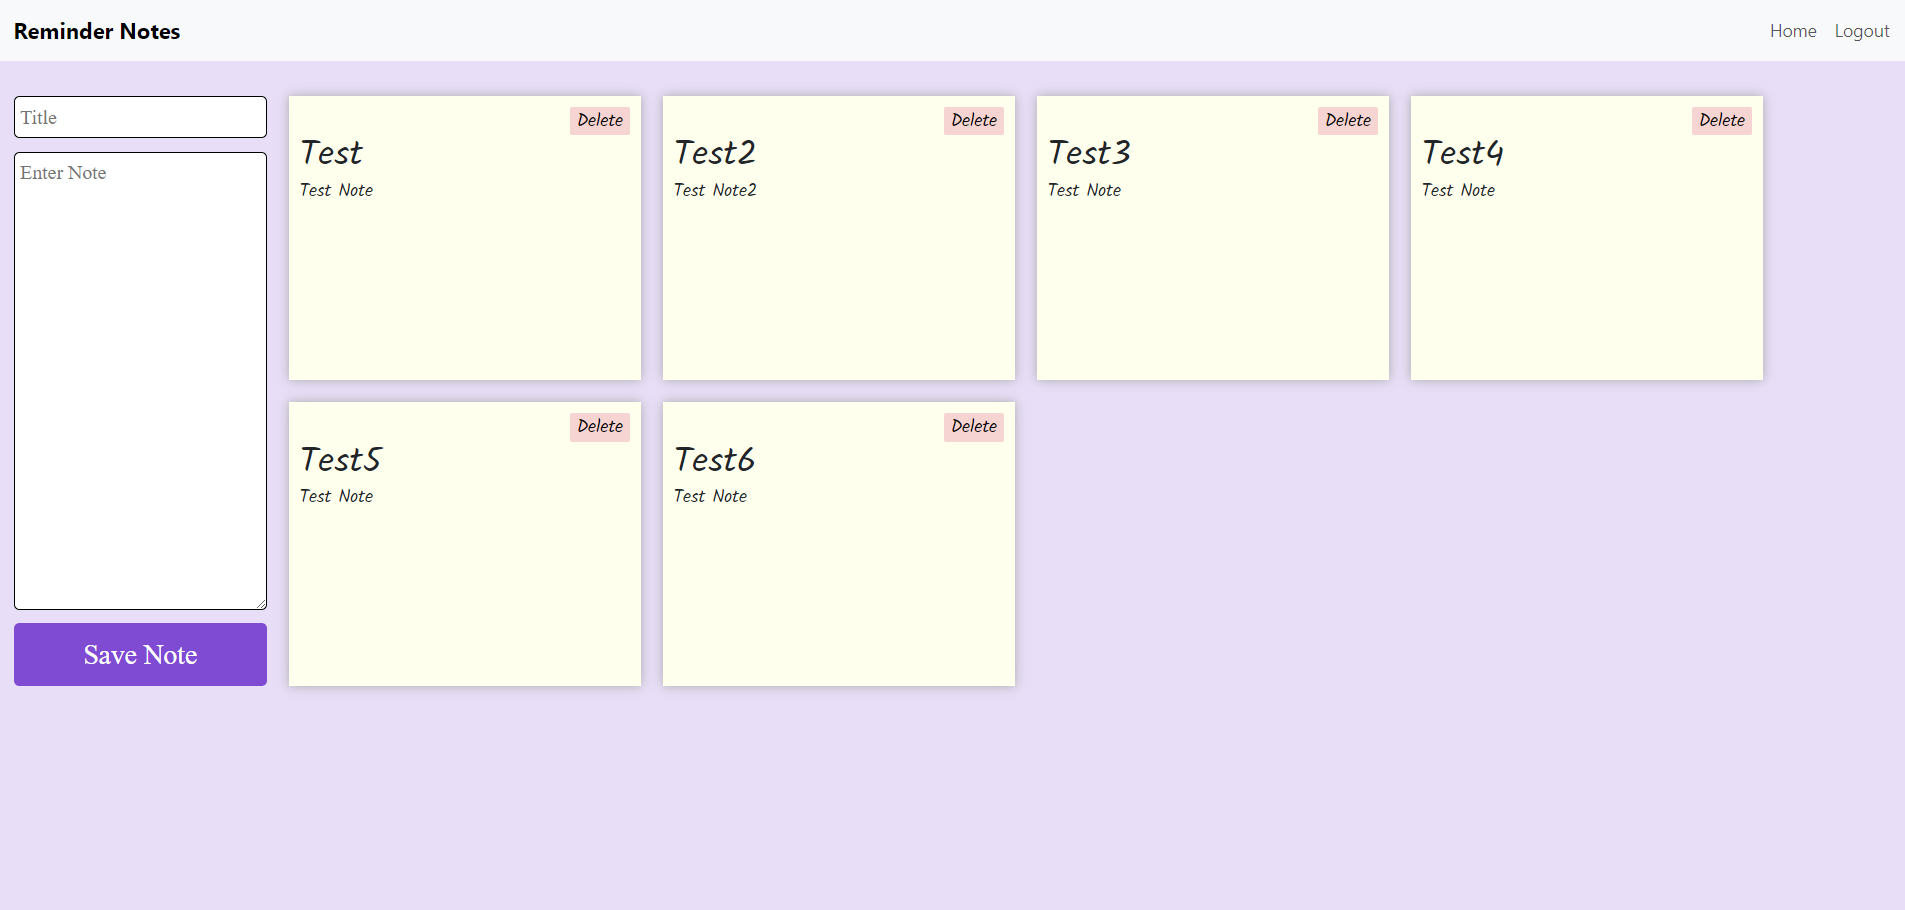
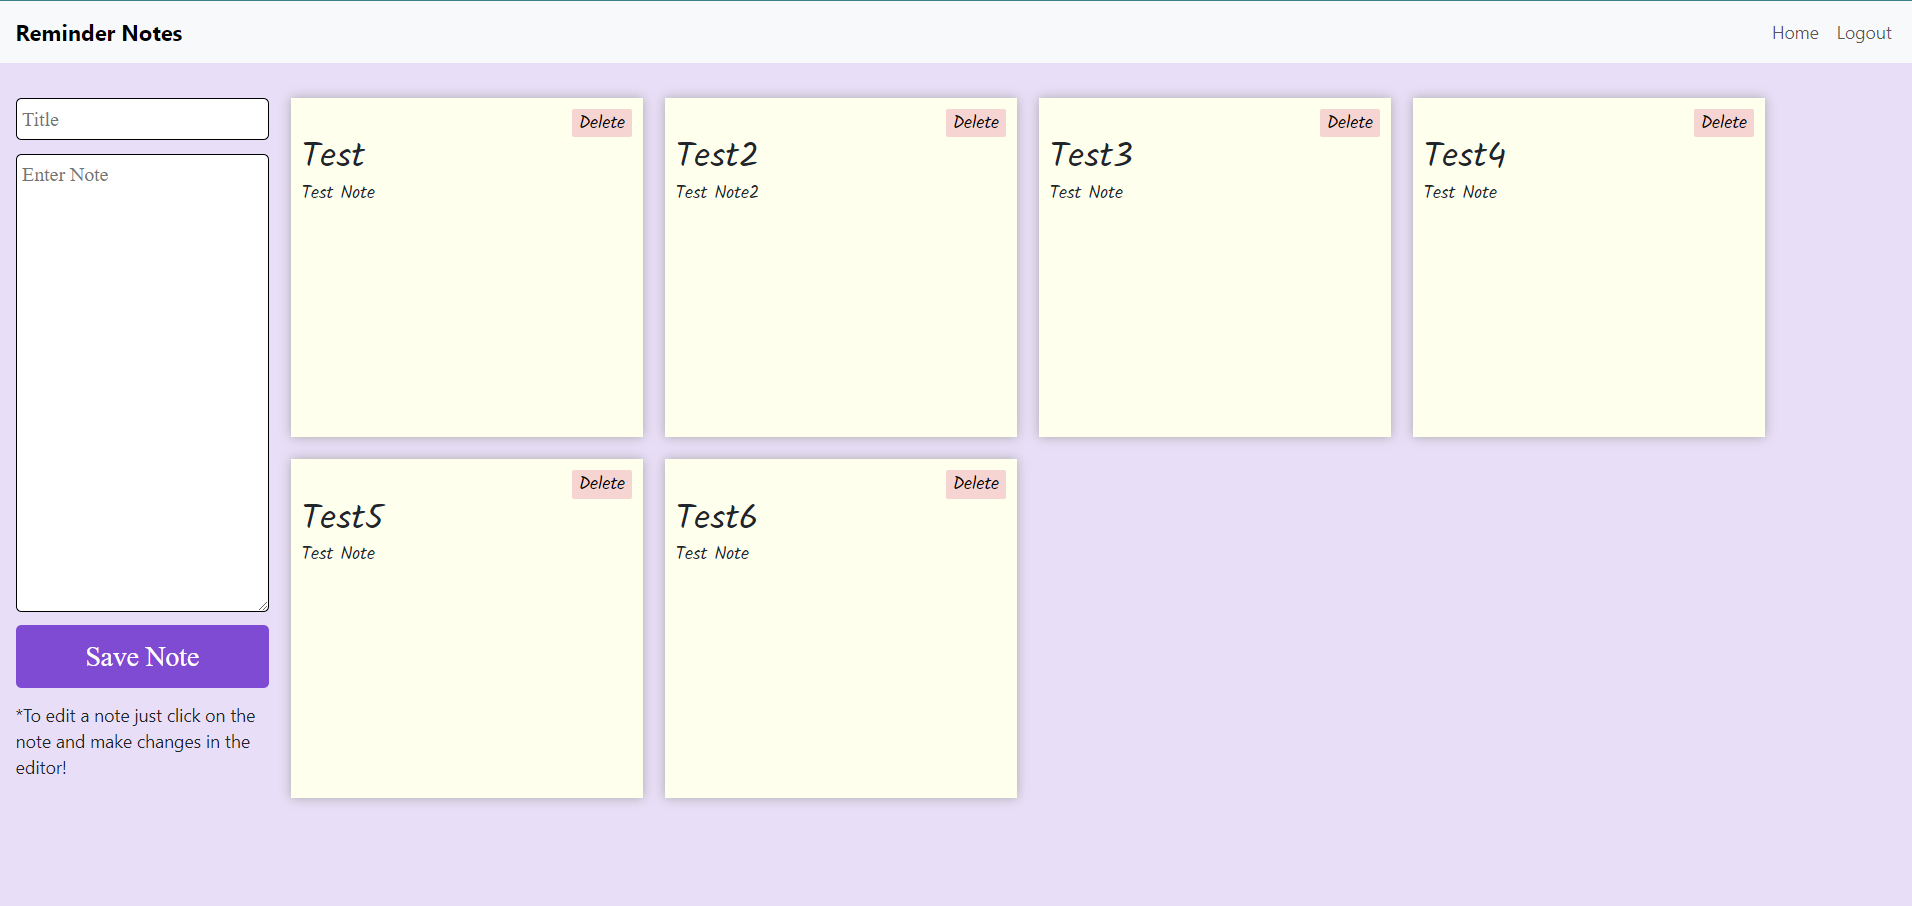
updated README.md with additional text and image

diff --git a/README.md b/README.md
@@ -1,5 +1,23 @@
 # Reminder Notes
 
+![Reminder-Notes-Screenshot](./client/public/noteAppSS.png)
+
+## About
+
 This application was created and designed to help organize sticky note reminders we all user on and around our computers. This app helps organize notes and make them so they cannot get lost or accidentally ruin should coffee spill on our desk! All notes are kept in one place, stored safely and with the use of a login these notes are stored privately. Sign up today!
 
-![Reminder-Notes-Screenshot](./client/public/noteAppSS.png)
+## Navigation
+
+- Click "Sign Up!" if you do not already have credentials established to set up your account.
+- If you already have a login established then just click "Login".
+- Click on "See My Notes!"
+- Enter text into "Title" as well as for the "Enter Note".
+- Click "Save Note".
+- To edit a note, click on the note and update the note in the editor.
+- To delete a note, just click the "Delete" button.
+
+## Notes Page
+
+![Notes-Page-Screenshot](./client/public/notesPageSS.png)
+
+## Technology
